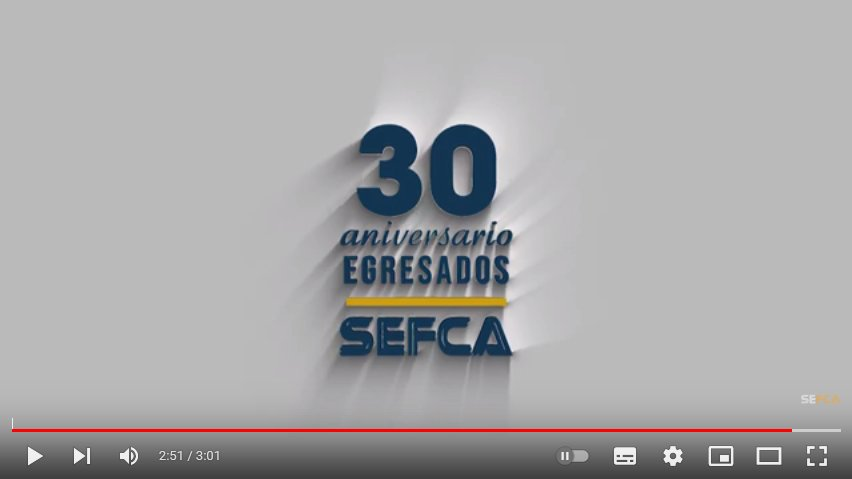
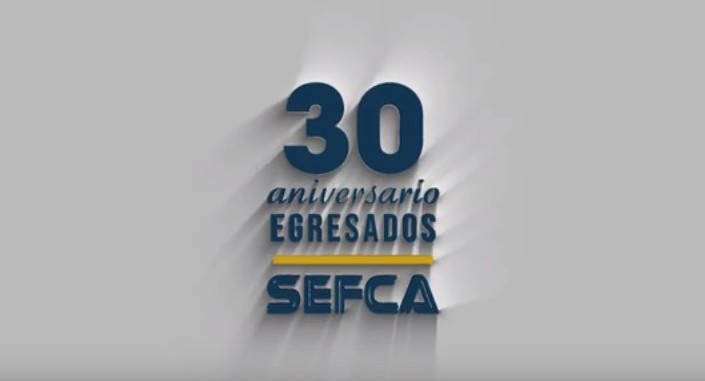
Cambio de sección: video de 30 años a eventos.php

Changed region(s): [[0.0, 0.1732, 1.0, 1.0]]

diff --git a/eventos.php b/eventos.php
@@ -204,6 +204,27 @@
                         </div>
                     </article>
 
+                    <!-- ========== Video 30 Aniversario ========== -->
+                    <article class="evento-card" data-tipo="evento" data-mes="3" data-anio="2023">
+                        <div class="evento-card-img">
+                            <img src="img/30_aniversario.jpg" alt="Video conmemorativo 30 años">
+                        </div>
+                        <div class="evento-card-cuerpo">
+                            <div class="evento-card-meta">
+                                <span class="evento-card-tag">Marzo de 2023</span>
+                            </div>
+							<h2 class="evento-card-titulo">Video conmemorativo: 30 años de historia</h2>
+							<p class="evento-card-desc">
+								Celebramos nuestros más de 30 años de historia y compromiso con la comunidad de egresados de la FCA en este video conmemorativo.
+							</p>
+                            <div class="evento-card-acciones">
+                                <a class="evento-card-enlace evento-card-enlace-secundario" href="https://www.youtube.com/watch?v=3RzU-kjkvRo" target="_blank" rel="noopener noreferrer">
+                                    Ver en Youtube <i class="fas fa-arrow-right"></i>
+                                </a>
+                            </div>
+                        </div>
+                    </article>
+
                     <!-- ========== 30 Aniversario de Egresados ========== -->
                     <article class="evento-card" data-tipo="evento" data-mes="3" data-anio="2023">
                         <div class="evento-card-img">

diff --git a/voces.php b/voces.php
@@ -33,24 +33,6 @@
             <?php include("includes/entrevistas.php"); ?>
         </div>
     </div>
-
-    <!-- Video Celebración 30 años -->
-    <div class="section-gap">
-        <div class="container">
-            <div class="row justify-content-center">
-                <div class="col-lg-10">
-                    <div class="ratio ratio-16x9 rounded-4 shadow-lg overflow-hidden border">
-                        <iframe src="https://www.youtube.com/embed/3RzU-kjkvRo"
-                            title="Celebramos nuestros más de 30 años de historia"
-                            allow="accelerometer; autoplay; clipboard-write; encrypted-media; gyroscope; picture-in-picture; web-share"
-                            referrerpolicy="strict-origin-when-cross-origin" allowfullscreen>
-                        </iframe>
-                    </div>
-                </div>
-            </div>
-        </div>
-    </div>
-
     <!-- Footer -->
     <?php require_once("includes/footer.php"); ?>
 

diff --git a/includes/afiliacion.php b/includes/afiliacion.php
@@ -25,7 +25,7 @@ if ($_SERVER['REQUEST_METHOD'] === 'POST' && isset($_POST['enviar'])) {
 	<meta name="viewport" content="width=device-width, initial-scale=1.0">
 	<title>Afiliación SEFCA</title>
 	<link href="https://fonts.googleapis.com/css2?family=Playfair+Display:wght@700;900&family=Source+Sans+3:wght@300;400;600&display=swap" rel="stylesheet">
-	<link rel="stylesheet" href="css/diseno_afiliacion.css">
+	<link rel="stylesheet" href="../css/diseno_afiliacion.css">
 </head>
 <body>
 <div class="wrapper">

diff --git a/includes/navbar.php b/includes/navbar.php
@@ -25,7 +25,7 @@
                 <a href="voces.php" class="nav-item nav-link">Voces</a>
                 <a href="eventos.php" class="nav-item nav-link">Eventos</a>
                 <a href="proyectos.php" class="nav-item nav-link">Proyectos</a>
-                <a href="afiliacion.php" class="afiliacion-btn" target="_blank">¡Afíliate!</a>
+                <a href="includes/afiliacion.php" class="afiliacion-btn" target="_blank">¡Afíliate!</a>
             </div>
         </div>
     </nav>
